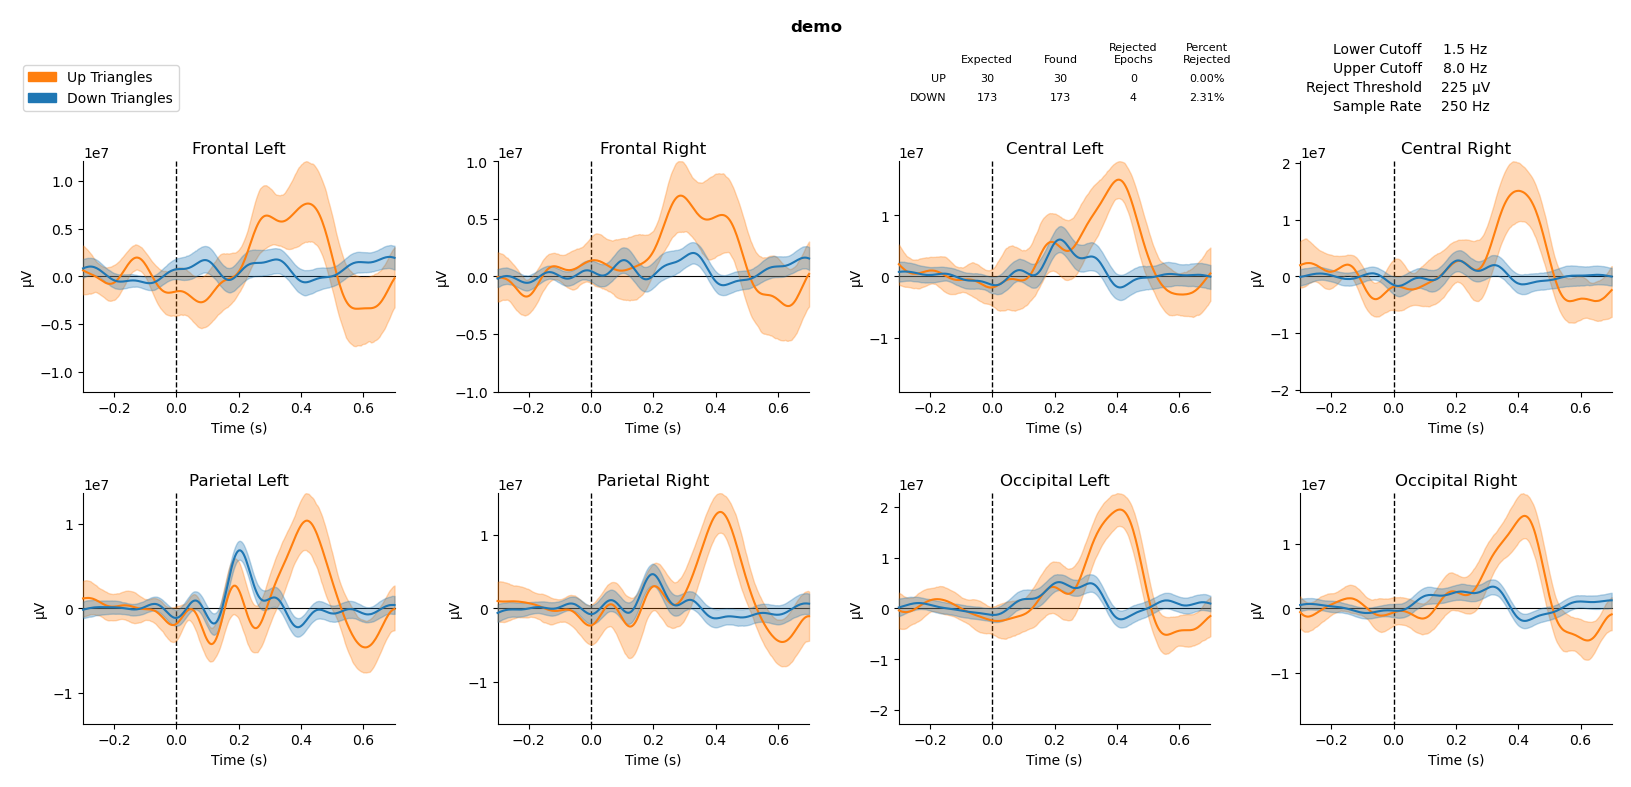
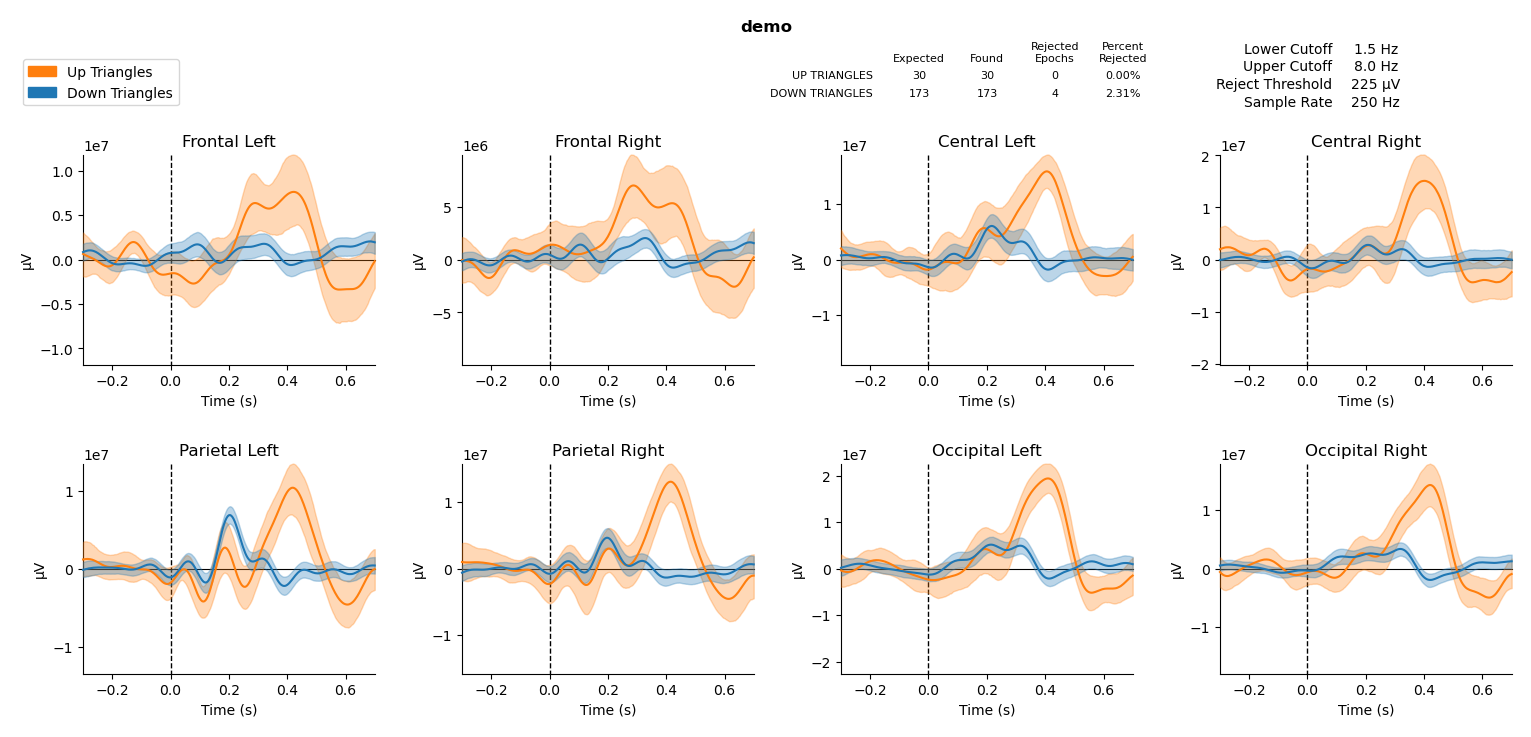
real exceptions

diff --git a/ERP_experiment.py b/ERP_experiment.py
@@ -15,6 +15,13 @@ import matplotlib.table as mtable
 import matplotlib.gridspec as gridspec
 import pandas
 
+class SignalFlashesNotFound(Exception):
+    """
+    Exception raised when all 10 signal flashes are not found
+    """
+    def __init__(self, found):
+        self.message = "Raw data could not be trimmed because {} singal flashes were found but 10 were expected".format(found)
+        super().__init__(self.message)
 
 class ERP:
     def __init__(self):
@@ -35,10 +42,9 @@ class ERP:
         self.left_flash_epochs = None
         self.right_flash_epochs = None
         self.epoch_info = None
+        self.video_length = None
         self.fig = None
-        # self.raw.drop_channels(['Sample Index', 'EEG 1', 'EEG 2', 'EEG 3', 'EEG 4', 'EEG 5', 'EEG 6', 'EEG 7', 'EEG 8', 'Timestamp'])
-
-
+        
 
     def load_config(self):
         """
@@ -59,7 +65,8 @@ class ERP:
                    'left_flash_condition_name': 'Up Triangles',
                    'right_flash_condition_name': 'Down Triangles',
                    'number_of_left_flashes': 30,
-                   'number_of_right_flashes': 173}
+                   'number_of_right_flashes': 173,
+                   'video_length': '0:03:46.2'}
         if data == default:
             txt = 'Default parameters loaded from configuration file'
             self.params = default
@@ -85,27 +92,28 @@ class ERP:
                     '|' + '{}'.format(key.replace('_',' ')).center(col_width) +
                     '|' + '{} {}'.format(self.params[key], unit).center(col_width) + '|'
                 )
+            table.append(''.center(col_width*2 + 3, '-'))
+            table.append('')
+            self.sample_rate = self.params.pop('sample_rate')
+            self.rejection_log_level = self.params.pop('rejection_log_level')
+            self.log_level = self.params.pop('log_level')
+            self.output_results = self.params.pop('output_results')
+            self.epoch_info = {'Expected': [self.params.pop('number_of_left_flashes'), self.params.pop('number_of_right_flashes')]}
+            self.video_length = str(datetime.timedelta(seconds=self.params.pop('video_length')))
         except KeyError as err:
             print(
-                '\nUh Oh! The variable name {} is not valid. Please ensure that the variables in config.yml match these names:\n'.format(traceback.format_exception_only(err)[0].split('\'')[1]) +
+                '\nUh Oh! There is an invalid variable name in config.yml. Please ensure that the variables in config.yml match these names:\n' +
                 ('\t{}\n'*len(default)).format(*default.keys()) + 
                 '\nProgram exiting.\n'
             )
             sys.exit()
-        table.append(''.center(col_width*2 + 3, '-'))
-        table.append('')
-        self.sample_rate = self.params.pop('sample_rate')
-        self.rejection_log_level = self.params.pop('rejection_log_level')
-        self.log_level = self.params.pop('log_level')
-        self.output_results = self.params.pop('output_results')
-        self.epoch_info = {'Expected': [self.params.pop('number_of_left_flashes'), self.params.pop('number_of_right_flashes')]}
         return '\n'.join(table)
 
 
     def read_csv_file(self):
         """
         Reads in the name of the Biosemi Data Format file
-        This is isolated from reading the data so IO file input can be disabled during testing
+        This is isolated from reading the data so IO file input can be disabled during developing/testing
         """
         self.file = input("Enter the name of the txt file (ex. demo.txt): ")
 
@@ -142,55 +150,60 @@ class ERP:
         total = str(datetime.timedelta(seconds=self.raw.n_times / self.sample_rate))
         return 'Input file loaded succesfully\nTotal length of recording: {}\n'.format(total)
     
+
     def trim_raw_data(self):
         """
         There are five quick signal flashes at the beginning and end of the video
         Find all 'simultaneous' flashes in the stimulus channels then narrow that down to the 10 true signal flashes
-        Trim the data from the last of the first five to the first of the last five
-        First drop all irrelevant channels to reduce memory usage
-        TODO: error if it cannot find both sets of five
+        Trim the data from the first signal flash to the last signal flashes
+        The data during the signal flashes themselves is not cropped out because it includes time that falls within the first and last epochs
         """
         AC0 = mne.find_events(self.raw, stim_channel='STI0', consecutive=False)
         AC1 = mne.find_events(self.raw, stim_channel='STI1', consecutive=False)
         AC0_col0 = AC0[:,0]
         AC1_col0 = AC1[:,0]
-        mask = np.isclose(AC0_col0[:,None], AC1_col0, atol=15)
+        mask = np.isclose(AC0_col0[:, None], AC1_col0, atol=15)
         idx, _ = np.where(mask)
         simulFlashes = AC0[idx]
         i = 0
         mask = np.array([], dtype=np.int64)
-        while i < len(simulFlashes)-4:
+        while i < len(simulFlashes) - 4:
             flash = simulFlashes[i][0]
-            fifth = simulFlashes[i+4][0]
+            fifth = simulFlashes[i + 4][0]
             if fifth - flash <= 250:
-                idx = np.array(list(range(i, i+5)))
+                idx = np.array(list(range(i, i + 5)))
                 mask = np.concatenate((mask, idx))
                 i += 5
             else:
                 i += 1
         signalFlashes = simulFlashes[mask]
         if len(signalFlashes) != 10:
-            print('Uh Oh! Didn\'t find the signal flashes. Exiting program.') #TODO: actually throw error here!
-            sys.exit()
+            raise SignalFlashesNotFound(len(signalFlashes))
         firstSignal = (signalFlashes[0][0]) / self.sample_rate
         secondSignal = (signalFlashes[-1][0]) / self.sample_rate
         self.raw.crop(firstSignal, secondSignal)
         seconds = self.raw.n_times / self.sample_rate
         total = str(datetime.timedelta(seconds=seconds))
         justified = 'Length of analyzed data: '.ljust(35)
-        return 'Data trimmed to relevant timeframe.\n{}{}\nExpected length of analyzed data:  0:03:46.2\n'.format(justified, total) #TODO change this if you keep the cropping to include signal flashes
+        return 'Data trimmed to relevant timeframe.\n{}{}\nExpected length of analyzed data:  {}\n'.format(justified, total, self.video_length) #TODO change this if you keep the cropping to include signal flashes
+
+
+    def filter_raw_data(self):
+        """
+        Bandpass FIR filter
+        """
+        self.raw = self.raw.filter(l_freq=self.params['lower_passband_edge'], h_freq=self.params['upper_passband_edge'], picks=self.eeg_channels)
+
 
     def find_stimuli(self):
         """
-        TODO: demo.txt finding extra down!!! - it was at the end
-        Find the events in the two stimuli channels that indicate that a triangle was displayed
-        Zhang, G., Garrett, D. R., & Luck, S. J. Optimal Filters for ERP Research I: A General Approach for Selecting Filter Settings. BioRxiv.
+        Find the events in the two stimuli channels. 
+        The first and last 5 stimuli flashes are not included as events, but the data during those 10 flashes is not cropped out
+        because it includes EEG data for the first and last epochs
         """
         print('Finding stimuli signals...')
         STI0 = mne.find_events(self.raw, stim_channel='STI0', consecutive=False, min_duration=1 / self.sample_rate, initial_event=True)[5:-5]
         STI1 = mne.find_events(self.raw, stim_channel='STI1', consecutive=False, min_duration=1 / self.sample_rate, initial_event=True)[5:-5]
-        # self.left_flash_events = min(STI0, STI1, key=len) Removed 6/13 because changings names from up/down to left/right
-        # self.right_flash_events = max(STI0, STI1, key=len)
         self.left_flash_events, self.right_flash_events = STI0, STI1
         self.epoch_info['Found'] = [len(self.left_flash_events), len(self.right_flash_events)]
         up_info = '{} found: {}'.format(self.params['left_flash_condition_name'], len(self.left_flash_events)).ljust(30)
@@ -200,7 +213,6 @@ class ERP:
             up_info = '\t{}Expected: {}'.format(up_info, self.epoch_info['Expected'][0])
             down_info = '\t{}Expected: {}'.format(down_info, self.epoch_info['Expected'][1])
         return '{}\n{}\n'.format(up_info, down_info)
-        # return 'Up triangles found: {}{}\nDown triangles found: {}{}\n'.format(len(self.up_events), up_warn, len(self.down_events), down_warn)
 
 
     def find_epochs(self):
@@ -211,13 +223,7 @@ class ERP:
         self.left_flash_epochs = mne.Epochs(raw=self.raw, events=self.left_flash_events, picks=self.eeg_channels, tmin=self.params['t_min'], tmax=self.params['t_max'], preload=True)
         self.right_flash_epochs = mne.Epochs(raw=self.raw, events=self.right_flash_events, picks=self.eeg_channels, tmin=self.params['t_min'], tmax=self.params['t_max'], preload=True)
         return 'Epochs isolated\n'
-
-
-    def filter_raw_data(self):
-        """
-        Bandpass FIR filter
-        """
-        self.raw = self.raw.filter(l_freq=self.params['lower_passband_edge'], h_freq=self.params['upper_passband_edge'], picks=self.eeg_channels)
+    
 
     def artifact_rejection(self):
         """
@@ -276,7 +282,6 @@ class ERP:
         fig_width = (screen_width // 100) * 100
         fig_height = fig_width // 2
         diff_width, diff_height = (screen_width - fig_width) // 2, (screen_height - fig_height) // 2
-        figsize = (screen_width // 100, screen_width // 200) #TODO: delete
         self.fig = plt.figure('Averaged Channels', layout='constrained')
         self.fig.suptitle(self.file.split('.')[0], fontweight='demibold')
         mngr = plt.get_current_fig_manager()
@@ -335,7 +340,6 @@ class ERP:
         Output the average (either up or down, same as the plotted data) of all all epochs for each channel into to a csv
         Useful for further analysis of average peaks in Excel
         """
-        # mne.set_log_level('ERROR')
         averages = pandas.DataFrame()
         for channel in self.eeg_channels:
             left = self.left_flash_epochs.average(picks=channel).to_data_frame(time_format='ms', index='time')
@@ -345,14 +349,6 @@ class ERP:
             ch_avg = pandas.concat([left, right], axis=1)
             averages = pandas.concat([averages, ch_avg], axis=1)
         averages.to_csv(os.path.join(path, 'Figure Data.csv'), index=True)
-
-    def epoch_drop_fig(self):
-        """
-        TODO: confirm averaging done in dump plotted data doesn't do it in place
-        """
-        fig = plt.figure()
-
-
 
 
     def main(self):
